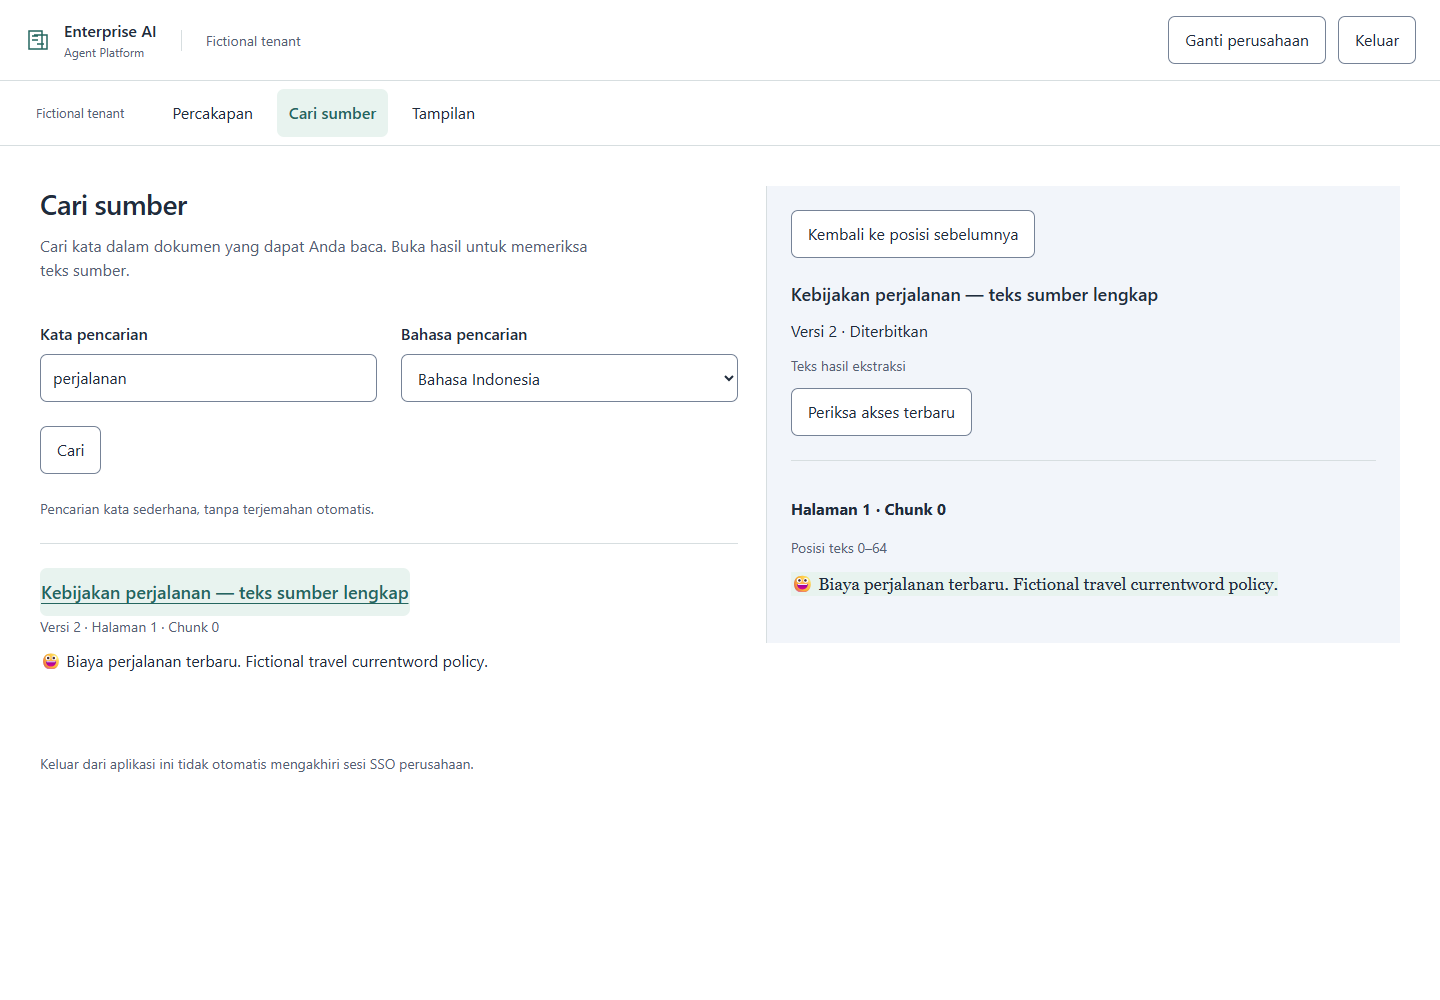
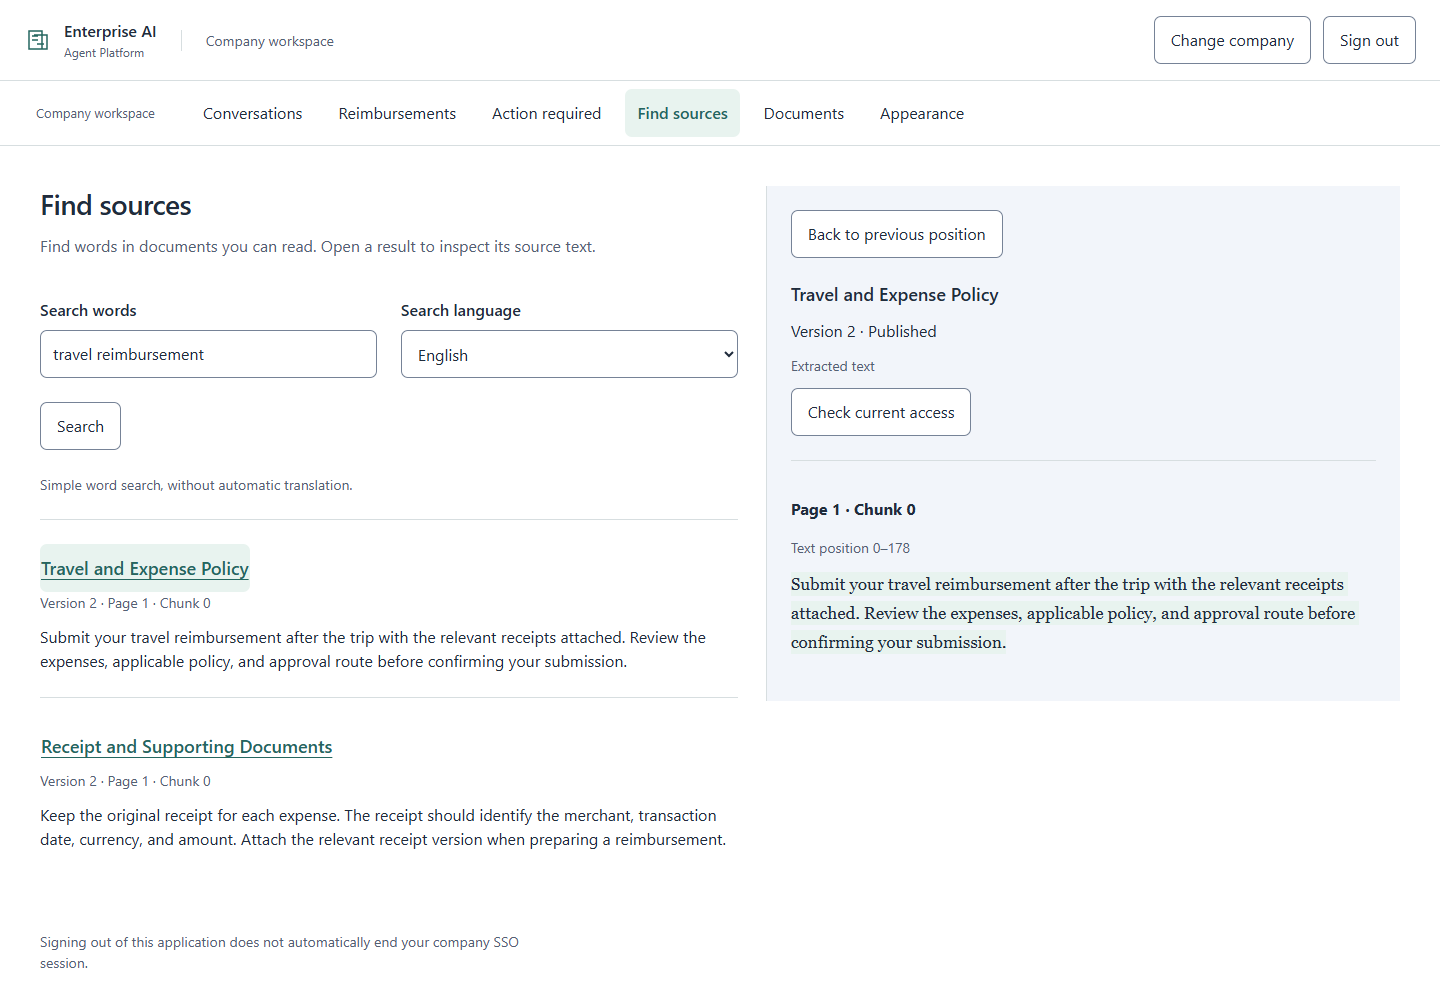
docs: refresh application screenshots and simplify portfolio presentation

diff --git a/README.md b/README.md
@@ -1,142 +1,103 @@
 # Enterprise AI Agent Platform
 
-A multi-tenant workspace that connects company knowledge to human-approved business workflows.
+Company knowledge, reimbursement, and approvals in an AI-assisted workspace.
 
-Employees can ask policy questions, inspect the supporting sources, prepare travel reimbursements,
-and follow an application through review. Knowledge managers control document publication and
-audiences; reviewers act on the exact submission in front of them. AI assistance works within
-server-enforced identity, policy, and transaction boundaries.
+Ask a policy question, open the source, prepare a reimbursement, and follow it through review.
+The platform brings these steps together with separate company workspaces, document controls,
+and explicit human approval.
 
-> Find the policy. Review the evidence. Confirm the action.
+![Knowledge search with source inspection](docs/product-tour/workspace-dark.png)
 
-[![Company policy search and source inspection](docs/product-tour/source-search.png)](docs/product-tour/README.md)
+[Product tour](docs/product-tour/README.md) | [Architecture](ARCHITECTURE.md) | [Case study](docs/portfolio/CASE_STUDY.md) | [Getting started](docs/GETTING_STARTED.md)
 
-[Product tour](docs/product-tour/README.md) · [Engineering case study](docs/portfolio/CASE_STUDY.md) · [Architecture](ARCHITECTURE.md) · [Local setup](docs/GETTING_STARTED.md)
+## What it does
 
-## Why it exists
+| Area | Capabilities |
+| --- | --- |
+| Knowledge assistant | Indonesian and English conversations, cited answers, and source inspection. |
+| Document management | Upload, text preview, versioning, publication, audience rules, and withdrawal. |
+| Reimbursement | Manual or assisted preparation, receipt attachments, policy review, and confirmation. |
+| Approvals | Assigned reviews, approval, rejection, requests for information, and status tracking. |
+| Administration | Company membership, roles, configuration, and business policies. |
 
-Company knowledge and operational workflows often live apart. An employee can find a travel
-policy but still needs to understand the applicable version, gather receipts, prepare a claim,
-and reach the correct approver. An AI answer becomes useful when that entire path stays
-inspectable and under the right person's control.
-
-This project brings policy retrieval, document governance, reimbursement preparation, approval,
-and recovery into a shared application foundation.
-
-## Product workflow
+## From a question to an action
 
 ```text
-Company workspace → Policy question → Inspect cited sources
-                  → Prepare reimbursement → Review and confirm
-                  → Approval → Submission status and receipt
+Ask about policy -> Inspect the source -> Prepare a draft
+                -> Review and confirm -> Approval -> Track the result
 ```
 
-| Workspace | What users can do |
-| --- | --- |
-| Conversations | Ask in Indonesian or English, revisit owned conversations, and open cited passages. |
-| Knowledge | Upload documents, inspect extracted text, publish versions, set audiences, and withdraw content. |
-| Reimbursements | Prepare a claim manually or with AI assistance, attach receipts, and review applicable rules. |
-| Approvals | Inspect the submission and evidence, approve, reject, or request information within current authority. |
-| Administration | Manage scoped membership, configuration, business policies, and operational status. |
+Employees can start from a conversation or prepare a reimbursement directly. Both paths use
+the same editable draft and review form. The user checks the details and confirms before
+the platform submits an action.
 
-## Product tour
+![Conversation with the cited policy open](docs/product-tour/conversation.png)
 
-<table>
-  <tr>
-    <td width="50%"><a href="docs/product-tour/source-search.png"><img src="docs/product-tour/source-search.png" alt="Fictional company policy search with the source text open"></a><br><strong>Inspect the source</strong><br>Read the policy passage alongside search results.</td>
-    <td width="50%"><a href="docs/product-tour/reimbursement.png"><img src="docs/product-tour/reimbursement.png" alt="Reimbursement form with fictional receipts and a review before submission"></a><br><strong>Review before submitting</strong><br>Check expenses, attachments, rules, and the approval route.</td>
-  </tr>
-  <tr>
-    <td width="50%"><a href="docs/product-tour/approval.png"><img src="docs/product-tour/approval.png" alt="Reviewer workspace for a fictional reimbursement"></a><br><strong>Keep decisions human</strong><br>Review the exact claim and record an authorized decision.</td>
-    <td width="50%"><a href="docs/product-tour/administration.png"><img src="docs/product-tour/administration.png" alt="Scoped tenant administration with fictional configuration"></a><br><strong>Govern each workspace</strong><br>Manage configuration through scoped administrative controls.</td>
-  </tr>
-</table>
+## How it is built
 
-These are application captures using fictional local fixtures. The [tour](docs/product-tour/README.md)
-explains each view. They illustrate the interface rather than a public hosted deployment.
+The frontend uses React and TypeScript. A FastAPI backend coordinates identity, knowledge,
+conversations, drafts, and background work. PostgreSQL and pgvector hold application state
+and retrieval indexes; LangGraph checkpoints preserve assisted workflow progress.
 
-## Engineering highlights
-
-- **Tenant and session boundaries:** Cognito-backed identity, opaque server-side sessions, CSRF
-  protection, current-authority checks, and PostgreSQL row-level security.
-- **Governed retrieval:** versioned documents, audience-aware retrieval, source citations, and
-  renewed access checks when content is read.
-- **Explicit human consent:** manual and assisted preparation converge on a shared draft and
-  review flow; confirmation is bound to the reviewed version.
-- **Durable execution:** job leases, idempotent operation identity, checkpointed workflows, and
-  receipt lookup support recovery without blindly repeating a consequential action.
-- **Independent business enforcement:** a separately packaged reimbursement service owns claim
-  state, approval stages, its database authority, and transaction outcomes.
-- **Data lifecycle controls:** policy-bound inventory, retention checks, conversation erasure,
-  and private export are implemented behind explicit configuration.
-- **Operational preparation:** container definitions, AWS infrastructure templates, private
-  service routing, security-journal integration, and operator recovery runbooks are included.
-
-## Architecture
+A separate reimbursement service owns claim state, business rules, approval stages, and
+operation receipts. Model adapters provide assistance within application-controlled permissions.
 
 ```mermaid
 flowchart LR
-    USER[Employee or reviewer] --> WEB[React and TypeScript workspace]
-    ID[Cognito identity] --> API[FastAPI platform]
-    WEB --> API
-    API --> KNOW[Knowledge and source authorization]
-    KNOW --> MODEL[Configured model and embedding adapters]
-    API --> DRAFT[Shared draft and human confirmation]
-    DRAFT --> JOB[Durable jobs and LangGraph checkpoints]
-    JOB --> REF[Independent reimbursement service]
-    REF --> RECEIPT[Claim state and operation receipts]
-    API --> DB[Platform PostgreSQL and pgvector]
-    REF --> RDB[Service-owned PostgreSQL]
-    KNOW --> FILE[Private object storage]
+    UI[React workspace] --> API[FastAPI platform]
+    API --> KNOW[Knowledge and sources]
+    KNOW --> AI[Model adapters]
+    API --> REVIEW[Draft and human confirmation]
+    REVIEW --> WORK[Jobs and LangGraph]
+    WORK --> REF[Reimbursement service]
+    API --> DB[PostgreSQL and pgvector]
+    KNOW --> FILES[Private object storage]
+    REF --> RESULT[Claim state and receipts]
 ```
 
-The platform is a modular Python application shared by API and worker processes. The
-reimbursement service has independent packaging, credentials, and migrations. Model output
-supplies assistance; application and service controls authorize actions.
+## Engineering decisions
 
-**Stack:** React, TypeScript, Vite, FastAPI, Python, LangGraph, PostgreSQL/pgvector, Cognito,
-private S3 storage, and configurable model adapters. The AWS deployment package targets EKS
-with an independent Lambda/DynamoDB security journal.
+- **Current access checks:** sessions, company membership, and source permissions are checked
+  when protected content or actions are requested.
+- **Version-bound review:** confirmation applies to the draft and rules the user reviewed.
+- **Recoverable execution:** stable operation keys, job leases, checkpoints, and receipt lookup
+  help recover interrupted workflows.
+- **Independent business rules:** the reimbursement service enforces its own authorization
+  and commits business effects with their receipts.
+- **Data lifecycle controls:** policy-bound inventory, conversation erasure, and private export
+  are available through explicit configuration.
 
-## Explore locally
+The [case study](docs/portfolio/CASE_STUDY.md) explains these decisions. Container definitions,
+AWS infrastructure templates, and release/recovery procedures are in the [deployment guide](deployment/README.md).
 
-Start with the [local setup guide](docs/GETTING_STARTED.md). The default configuration supports
-API bootstrap and a public frontend shell without paid model credentials. Authenticated business
-flows use explicitly configured identity, storage, databases, and the reference service.
+## Run locally
+
+Requirements and frontend setup are in [Getting started](docs/GETTING_STARTED.md).
+From the repository root:
 
 ```powershell
-git clone https://github.com/williamlo90/enterprise-ai-agent-platform.git
-cd enterprise-ai-agent-platform
 python -m uv sync --locked --project backend
 python -m uv run --locked --project backend enterprise-ai-api --env-file .env.example
 ```
 
-Development API documentation is served at `http://127.0.0.1:8000/docs`.
-See the [frontend guide](frontend/README.md) for the browser workspace.
+Open `http://127.0.0.1:8000/docs` for the development API. See the
+[frontend guide](frontend/README.md) for the browser workspace and configuration.
 
-## Project scope
+## Repository guide
 
-The knowledge, reimbursement, approval, and administration workflows have been integrated and
-accepted locally. Cloud deployment and model-quality acceptance are separate operator activities;
-the [deployment package](deployment/README.md) contains the implementation and runbook for those
-steps. The reference service is built for this project. Reimbursement payments and commercial ERP
-integration are outside the product scope.
-
-## Documentation
-
-| Start here | Purpose |
+| Location | Contents |
 | --- | --- |
-| [Documentation index](docs/README.md) | Product, architecture, setup, security, and operations. |
-| [Engineering case study](docs/portfolio/CASE_STUDY.md) | Product reasoning and engineering decisions. |
-| [Application pack](docs/portfolio/APPLICATION_PACK.md) | Portfolio description, CV bullets, and interview talking points. |
-| [Product contract](PRODUCT_CONTRACT.md) | Users, responsibilities, and workflow boundaries. |
-| [Data and API contracts](DATA_AND_API_CONTRACTS.md) | Ownership, authorization, and transaction semantics. |
-| [Security policy](SECURITY.md) | Trust boundaries and private vulnerability reporting. |
-| [Verification guide](TEST_PLAN.md) | Verification approach and explicit integration opt-ins. |
-| [Deployment runbook](deployment/README.md) | Operator configuration, release, and recovery. |
+| [frontend](frontend/) | React workspace and browser components. |
+| [backend](backend/) | Platform API, modules, workers, and migrations. |
+| [reference_service](reference_service/) | Independent reimbursement service. |
+| [deployment](deployment/) | Containers, routing, release, and recovery tools. |
+| [infra](infra/) | AWS infrastructure and security-journal definitions. |
+| [docs](docs/README.md) | Product, architecture, setup, and portfolio documentation. |
+
+[Product contract](PRODUCT_CONTRACT.md) | [Data and API contracts](DATA_AND_API_CONTRACTS.md) | [Security](SECURITY.md) | [Verification](TEST_PLAN.md) | [Application pack](docs/portfolio/APPLICATION_PACK.md)
 
 ## Source use
 
-Copyright (c) 2026 williamlo90. All rights reserved. This repository is available for portfolio
-review under the [source-use notice](LICENSE). Third-party components retain their own licenses;
-frontend attribution is recorded in [third-party notices](frontend/THIRD_PARTY_NOTICES.md).
+Copyright (c) 2026 williamlo90. All rights reserved. Available for portfolio review under the
+[source-use notice](LICENSE). Third-party attribution is preserved in
+[frontend notices](frontend/THIRD_PARTY_NOTICES.md).

diff --git a/docs/product-tour/README.md b/docs/product-tour/README.md
@@ -1,45 +1,32 @@
 # Product tour
 
-These screenshots were captured from the local application using fictional development fixtures.
-They show application surfaces, not a public hosted deployment or a fresh execution of the
-business workflow. Captures are reused unchanged from the existing local frontend walkthroughs.
-Displayed amounts, dates, identifiers, and policy text belong to fictional examples.
+Explore the workspace for policy questions, source inspection, and document management.
 
-## Search and inspect policy
+## Find a policy and read the source
 
-![Policy search with source inspection](source-search.png)
+Search company documents and open a result alongside the source text. The source panel keeps
+the document version and passage visible while you read.
 
-The user can search accessible company documents and inspect the extracted passage alongside
-the result. Source version and publication state remain visible.
+![Source search and policy passage](workspace-dark.png)
 
-## Prepare and review reimbursement
+## Ask a question and inspect the citation
 
-![Reimbursement preparation and confirmation](reimbursement.png)
+Conversations connect answers to the supporting policy. Open a citation to read the passage
+without leaving the conversation.
 
-The shared form brings expense selection, receipt versions, rule preview, and approval routing
-together before the user confirms submission. Both manual and assisted preparation use this flow.
+![Conversation with its supporting source](conversation.png)
 
-## Review an assigned claim
+## Manage company documents
 
-![Human approval workspace](approval.png)
+The document workspace brings uploads, active versions, and publication controls together.
+Open a document to inspect its content and manage its lifecycle.
 
-The reviewer sees claim details, supporting receipts, the bound rules, approval stages, and
-the decision controls associated with the current revision.
+![Company document workspace](documents.png)
 
-## Administer the tenant workspace
+## Light appearance
 
-![Scoped administration](administration.png)
+The workspace also supports a light appearance, with the same source inspection layout.
 
-Scoped administrators can inspect and edit granted configuration through a reviewable change flow.
-Configuration authority remains separate from employee private-content access.
+![Source inspection in light appearance](source-search.png)
 
-## Capture provenance
-
-| Image | Existing capture origin |
-| --- | --- |
-| Policy search | Source-search walkthrough, `fe-source-01`. |
-| Reimbursement | Manual reimbursement walkthrough, `fe-wf-01`. |
-| Approval | Workflow administration walkthrough, `fe-workflow-admin`. |
-| Administration | Workflow administration walkthrough, `fe-workflow-admin`. |
-
-[Back to project](../../README.md) · [Engineering case study](../portfolio/CASE_STUDY.md)
+[Back to project](../../README.md) | [Architecture](../../ARCHITECTURE.md)

diff --git a/docs/portfolio/CASE_STUDY.md b/docs/portfolio/CASE_STUDY.md
@@ -20,7 +20,7 @@ and scoped administration. A FastAPI platform coordinates identity, knowledge, d
 consent, jobs, and checkpoints. PostgreSQL/pgvector supplies transactional persistence and
 retrieval. A separate service owns the business state and operation receipts.
 
-The [product tour](../product-tour/README.md) shows fictional local application views.
+See the [product tour](../product-tour/README.md) for the application screens.
 
 ## Decisions that shape the system
 
@@ -69,7 +69,7 @@ and [data contracts](../../DATA_AND_API_CONTRACTS.md) for implementation detail.
 
 This project demonstrates full-stack AI product engineering across retrieval, identity,
 human review, durable orchestration, transaction correctness, privacy, and operational tooling.
-The business workflows are integrated locally. The cloud package provides deployment preparation;
-target operation and model-quality acceptance remain explicit operator responsibilities.
+The repository includes the application, independent business service, infrastructure templates,
+and release/recovery tooling.
 
 Use the [application pack](APPLICATION_PACK.md) for concise professional descriptions.

diff --git a/deployment/README.md b/deployment/README.md
@@ -76,7 +76,7 @@ multiline; jangan memasang dotenv multiline mentah lewat `--from-env-file` kubec
     Frontend memakai `/api` pada origin ini. `/internal` tidak diproxy publik.
 11. William menguji aplikasi. Aktifkan satu worker setelah registrasi/konfigurasi
     cocok. Eksekusi model memerlukan pilihan eksplisit EAI_ENABLE_MODEL_EXECUTION
-    dan EAI_FICTIONAL_APAC_ENABLED beserta penerimaan biaya/retensi/routing.
+    serta konfigurasi provider pada template environment, beserta persetujuan biaya/retensi/routing.
     Endpoint Singapore tidak mengubah Nova Pro APAC menjadi Singapore-only.
     Privacy tetap false sampai policy serta owning physical evidence lengkap.
 

diff --git a/SECURITY.md b/SECURITY.md
@@ -33,4 +33,4 @@ and operator decisions. Prepared infrastructure is distinct from accepted produc
 
 Environment files, private keys, generated manifests, raw traces, local engineering records,
 and runtime caches are ignored. Example files contain configuration shape rather than credentials.
-Public screenshots use fictional data. Dependency and adapted-component notices remain intact.
+Keep private company content out of public screenshots. Dependency and component notices remain intact.

diff --git a/docs/README.md b/docs/README.md
@@ -2,7 +2,7 @@
 
 ## Product and portfolio
 
-- [Product tour](product-tour/README.md): application views with fictional data.
+- [Product tour](product-tour/README.md): application screens and feature walkthroughs.
 - [Engineering case study](portfolio/CASE_STUDY.md): problem, architecture, and decisions.
 - [Application pack](portfolio/APPLICATION_PACK.md): recruiter summary and interview material.
 - [Product contract](../PRODUCT_CONTRACT.md): roles, user journeys, and scope.

diff --git a/reference_service/docs/ref04_contract.md b/reference_service/docs/ref04_contract.md
@@ -1,7 +1,7 @@
 # REF-04 trips and immutable package receiver
 
 This task stores reference data in the service's own database. Trips/items are
-fictional operator-provisioned data, not evaluation seeds or model-writable data.
+operator-provisioned reference data, not model-writable records.
 Packages are immutable copies. Receipt acknowledgement is not policy activation,
 eligibility, verified document publication, claim submission or approval.
 
